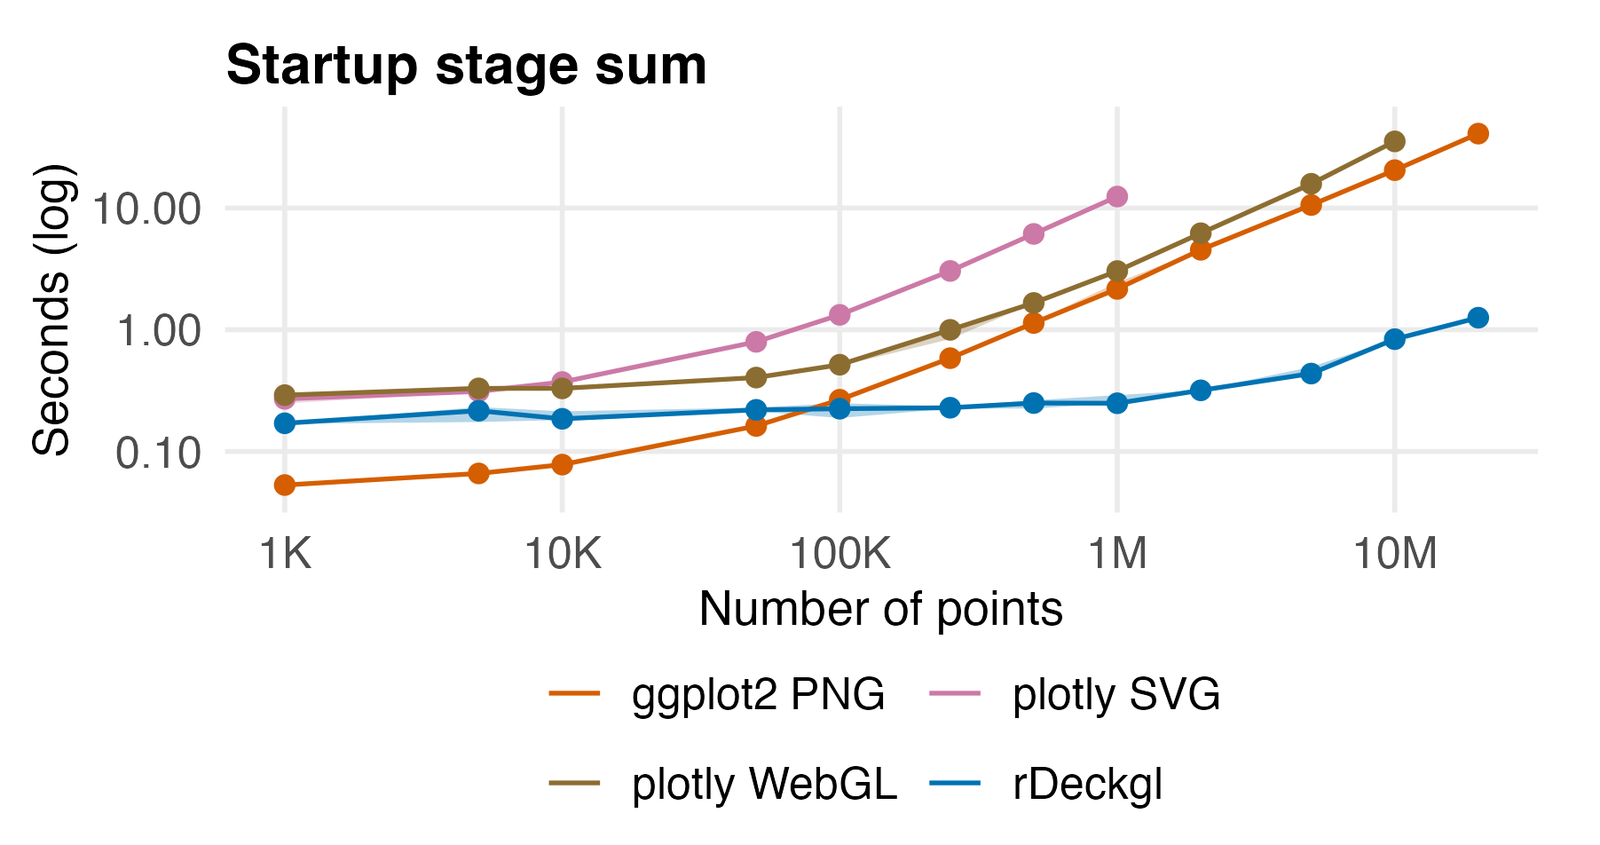
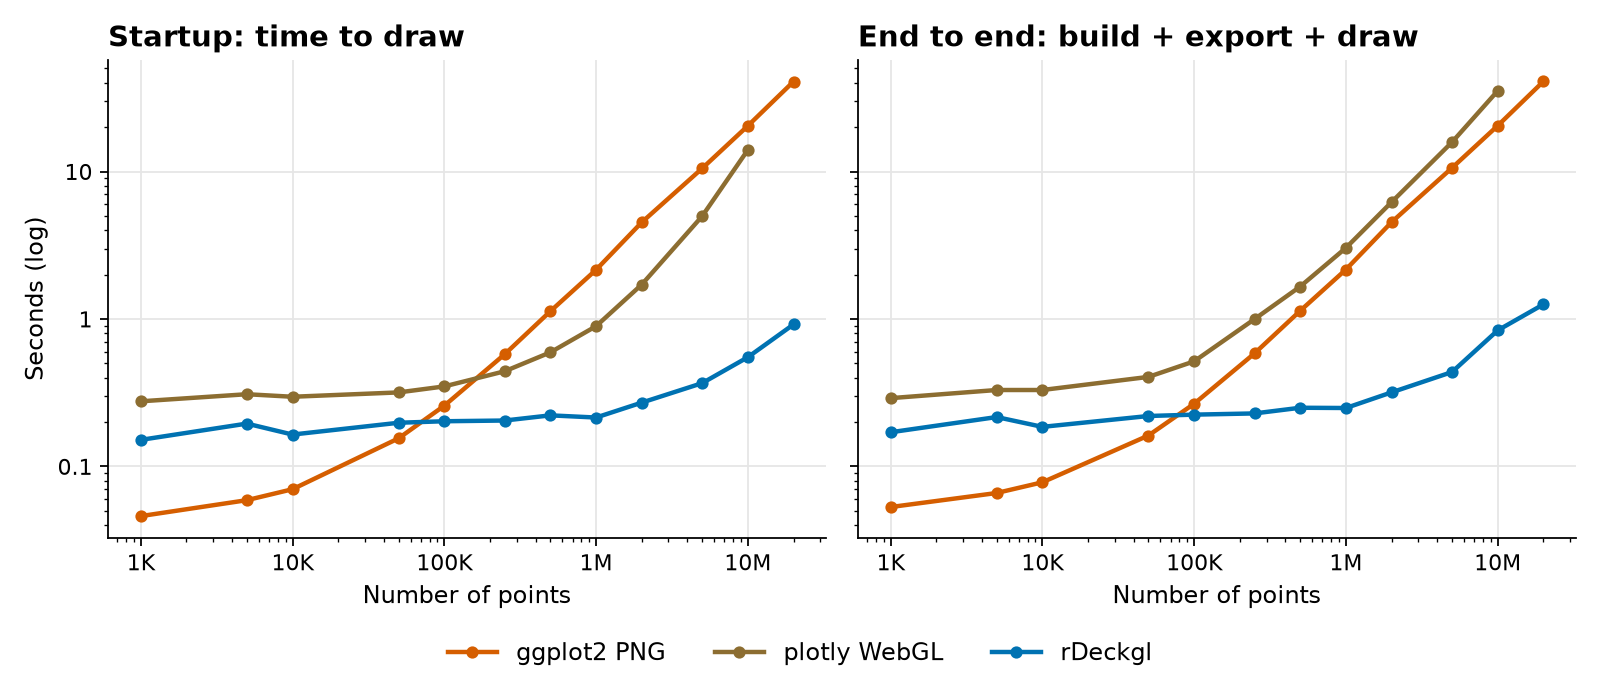
Use the newest dbVisuals panels, a real rMosaic Gaia render, and startup plus end-to-end timings for rDeckgl

diff --git a/index.html b/index.html
@@ -26,9 +26,9 @@
 
   <article class="project">
     <div class="media">
-      <a href="assets/dbvisuals-tissue.jpg"><img src="assets/dbvisuals-tissue.jpg" width="1600" height="1002" alt="Breast cancer tissue section colored by transcripts per cell, with Region and Detail insets at successively higher magnification that resolve individual transcripts inside cells"></a>
-      <a href="assets/dbvisuals-design.jpg"><img src="assets/dbvisuals-design.jpg" width="1600" height="388" loading="lazy" alt="Overview diagram: input data from GiottoDB, dbverse, Arrow, Parquet and GeoArrow flows into dbVisuals, with no-code creation in SQLRooms or code-based creation in R, and is drawn by Mosaic and deck.gl through the rMosaic and rDeckgl htmlwidgets"></a>
-      <p class="caption">A 10x Atera breast cancer section in the R viewer, zooming from whole tissue down to individual transcripts inside cells, and how the pieces fit together.</p>
+      <a href="assets/dbvisuals-tissue.jpg"><img src="assets/dbvisuals-tissue.jpg" width="1160" height="700" alt="Xenium breast cancer tissue section colored by transcripts per cell, with Region and Detail insets at successively higher magnification that resolve individual cells"></a>
+      <a href="assets/dbvisuals-design.jpg"><img src="assets/dbvisuals-design.jpg" width="1340" height="324" loading="lazy" alt="Overview diagram: input data from GiottoDB, dbverse, Arrow, Parquet and GeoArrow flows into dbVisuals, with no-code creation in SQLRooms or code-based creation in R, and is drawn by Mosaic and deck.gl through the rMosaic and rDeckgl htmlwidgets"></a>
+      <p class="caption">A Xenium breast cancer section in the R viewer, zooming from whole tissue down to single cells, and how the pieces fit together.</p>
     </div>
     <div class="body">
       <p class="kicker">Lead author - R package</p>
@@ -46,8 +46,8 @@
 
   <article class="project">
     <div class="media">
-      <a href="assets/rdeckgl-time.png"><img src="assets/rdeckgl-time.png" width="1600" height="845" loading="lazy" alt="Line chart of startup time in seconds against number of points, from one thousand to 20 million, for ggplot2 PNG, plotly SVG, plotly WebGL and rDeckgl"></a>
-      <p class="caption">Startup time from a DuckDB file to a rendered view. With Arrow-file transport rDeckgl draws 1 million points in 0.25 s against 2.16 s for a ggplot2 PNG, and 20 million in 1.26 s against 40.82 s. Measured on development builds ahead of the CRAN release.</p>
+      <a href="assets/rdeckgl-time.png"><img src="assets/rdeckgl-time.png" width="1600" height="688" loading="lazy" alt="Two line charts of seconds against number of points, from one thousand to 20 million, for ggplot2 PNG, plotly WebGL and rDeckgl: time to draw on the left and end-to-end time on the right; rDeckgl stays lowest from about 100 thousand points upward"></a>
+      <p class="caption">Median time to draw (left) and end to end from a DuckDB file to a rendered view (right). End to end, rDeckgl with Arrow-file transport takes 0.25 s for 1 million points against 2.16 s for a ggplot2 PNG, and 1.26 s for 20 million against 40.82 s. Measured on development builds ahead of the CRAN release.</p>
     </div>
     <div class="body">
       <p class="kicker">Author and maintainer - on CRAN</p>
@@ -68,8 +68,9 @@ data = list(type = "duckdb",
 
   <article class="project">
     <div class="media">
-      <a href="assets/rmosaic-linked.png"><img src="assets/rmosaic-linked.png" width="1600" height="558" loading="lazy" alt="dbVisuals Canvas with a deck.gl spatial map and a Mosaic histogram side by side; the brushed transcripts are gold on the map and blue in the histogram"></a>
-      <p class="caption">Linked views in dbVisuals Canvas: one brush over Vizgen MERFISH transcripts on the deck.gl map filters the Mosaic histogram beside it.</p>
+      <a href="assets/rmosaic-gaia-overview.png"><img src="assets/rmosaic-gaia-overview.png" width="1400" height="762" loading="lazy" alt="Gaia star catalog rendered by rMosaic: a density map of the sky showing the Milky Way, histograms of magnitude and parallax, and a color against magnitude density plot"></a>
+      <a href="assets/rmosaic-gaia-brushed.png"><img src="assets/rmosaic-gaia-brushed.png" width="1400" height="762" loading="lazy" alt="The same views after brushing high-parallax stars in the histogram: the sky map thins out and the color against magnitude plot resolves into a Hertzsprung-Russell main sequence"></a>
+      <p class="caption">The Gaia star catalog vignette rendered by rMosaic: 5 million stars queried in DuckDB-WASM. Brushing the nearby, high-parallax stars in the histogram (below) cross-filters every view and brings out the Hertzsprung-Russell diagram on the right.</p>
     </div>
     <div class="body">
       <p class="kicker">Author and maintainer - on CRAN</p>
